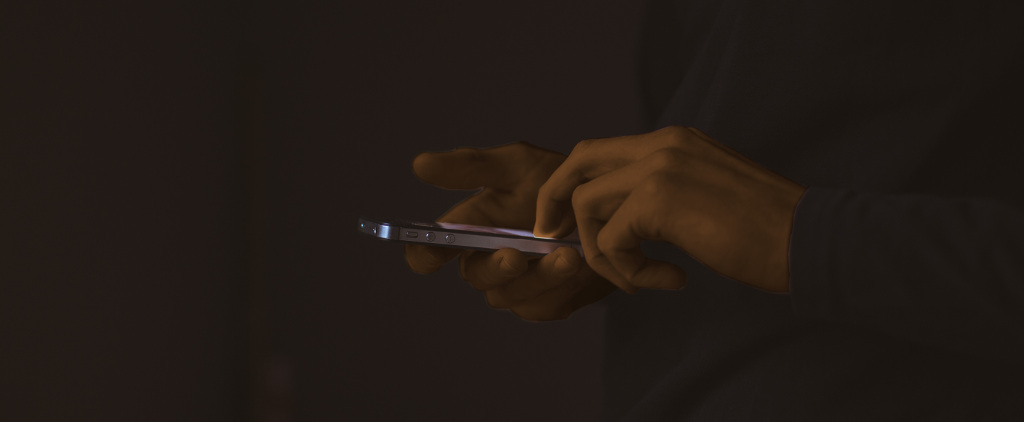
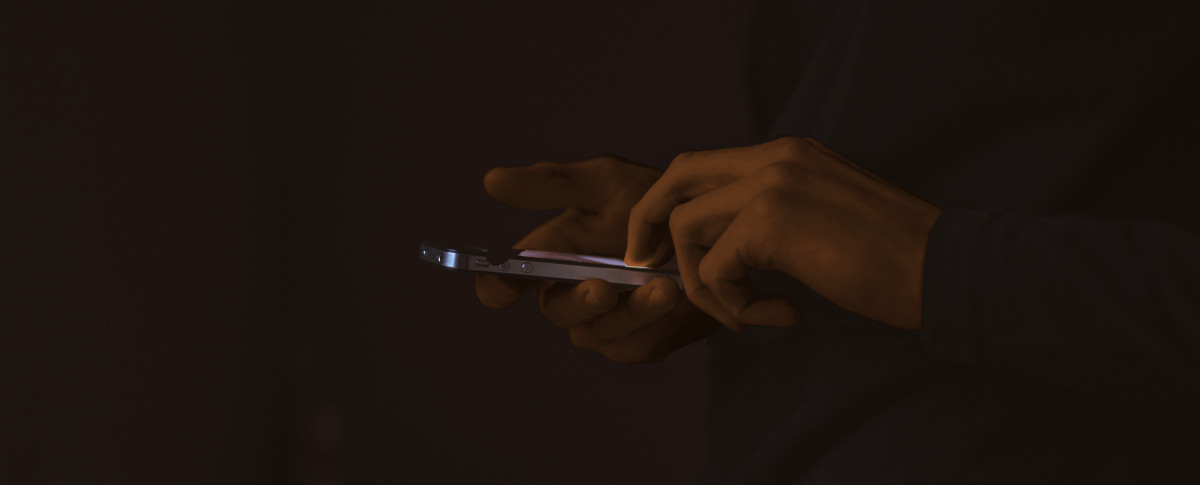
Bump Meteor version. Add initial styles for ioPleas.se

diff --git a/imports/ioplea.se/client/ui/pages/IOPlease.jsx b/imports/ioplea.se/client/ui/pages/IOPlease.jsx
@@ -1,4 +1,5 @@
 import React, { Component } from 'react';
+import Footer from '../components/Footer.jsx';
 import Results from '../components/Results.jsx';
 import Search from '../components/Search.jsx';
 
@@ -18,15 +19,28 @@ export default class Index extends Component {
 
   render() {
     return (
-      <div className="container-fluid text-xs-center">
-        <div className="row">
-          <div className="col-xs-12 col-sm-10 offset-sm-1 col-md-8 offset-md-2">
-            <h1 className='m-t-3'><stong>Do stuff</stong> with your IoT</h1>
+      <div>
+        <div className="ioplease-banner">
+          <div className="container-fluid text-xs-center">
+            <div className="row">
+              <div className="col-xs-12 col-sm-10 offset-sm-1 col-md-8 offset-md-2">
+                <h1 className='m-t-3'><stong>Do stuff</stong> with your IoT</h1>
 
-            <Search setQuery={this.setQuery.bind(this)}/>
-            {this.state.query == "" ? null : <Results query={this.state.query} thingId={this.state.thingId} />}
+                <Search setQuery={this.setQuery.bind(this)}/>
+              </div>
+            </div>
           </div>
         </div>
+
+        <div className="container-fluid text-xs-center">
+          <div className="row">
+            <div className="col-xs-12 col-sm-10 offset-sm-1 col-md-8 offset-md-2">
+              {this.state.query == "" ? null : <Results query={this.state.query} thingId={this.state.thingId} />}
+            </div>
+          </div>
+        </div>
+
+        <Footer />
       </div>
     );
   }

diff --git a/client/stylesheets/ioplease.css b/client/stylesheets/ioplease.css
@@ -2,3 +2,30 @@ a.stuff-card, a.stuff-card:hover, a.stuff-card:visited, a.stuff-card:active {
   text-decoration: none;
   color: #000;
 }
+
+.ioplease-banner {
+  background-image: url('/hands.jpg');
+  width: 100%;
+  min-height: 17rem;
+  padding-top: 4rem;
+  padding-bottom: 4rem;
+  background-size: cover;
+  background-repeat: no-repeat;
+  background-position: center center;
+  color: #fff;
+}
+
+#footer {
+  position: fixed;
+  left: 0px;
+  bottom: 0px;
+  height: 15rem;
+  width: 100%;
+  background: #1d1411;
+}
+
+/* IE 6 */
+* html #footer {
+  position:absolute;
+  top:expression((0-(footer.offsetHeight)+(document.documentElement.clientHeight ? document.documentElement.clientHeight : document.body.clientHeight)+(ignoreMe = document.documentElement.scrollTop ? document.documentElement.scrollTop : document.body.scrollTop))+'px');
+}

diff --git a/imports/ioplea.se/client/ui/components/Footer.jsx b/imports/ioplea.se/client/ui/components/Footer.jsx
@@ -1,0 +1,11 @@
+import React, { Component } from 'react';
+
+export default class Footer extends Component {
+  render() {
+    return (
+      <div id="footer">
+
+      </div>
+    )
+  }
+}
